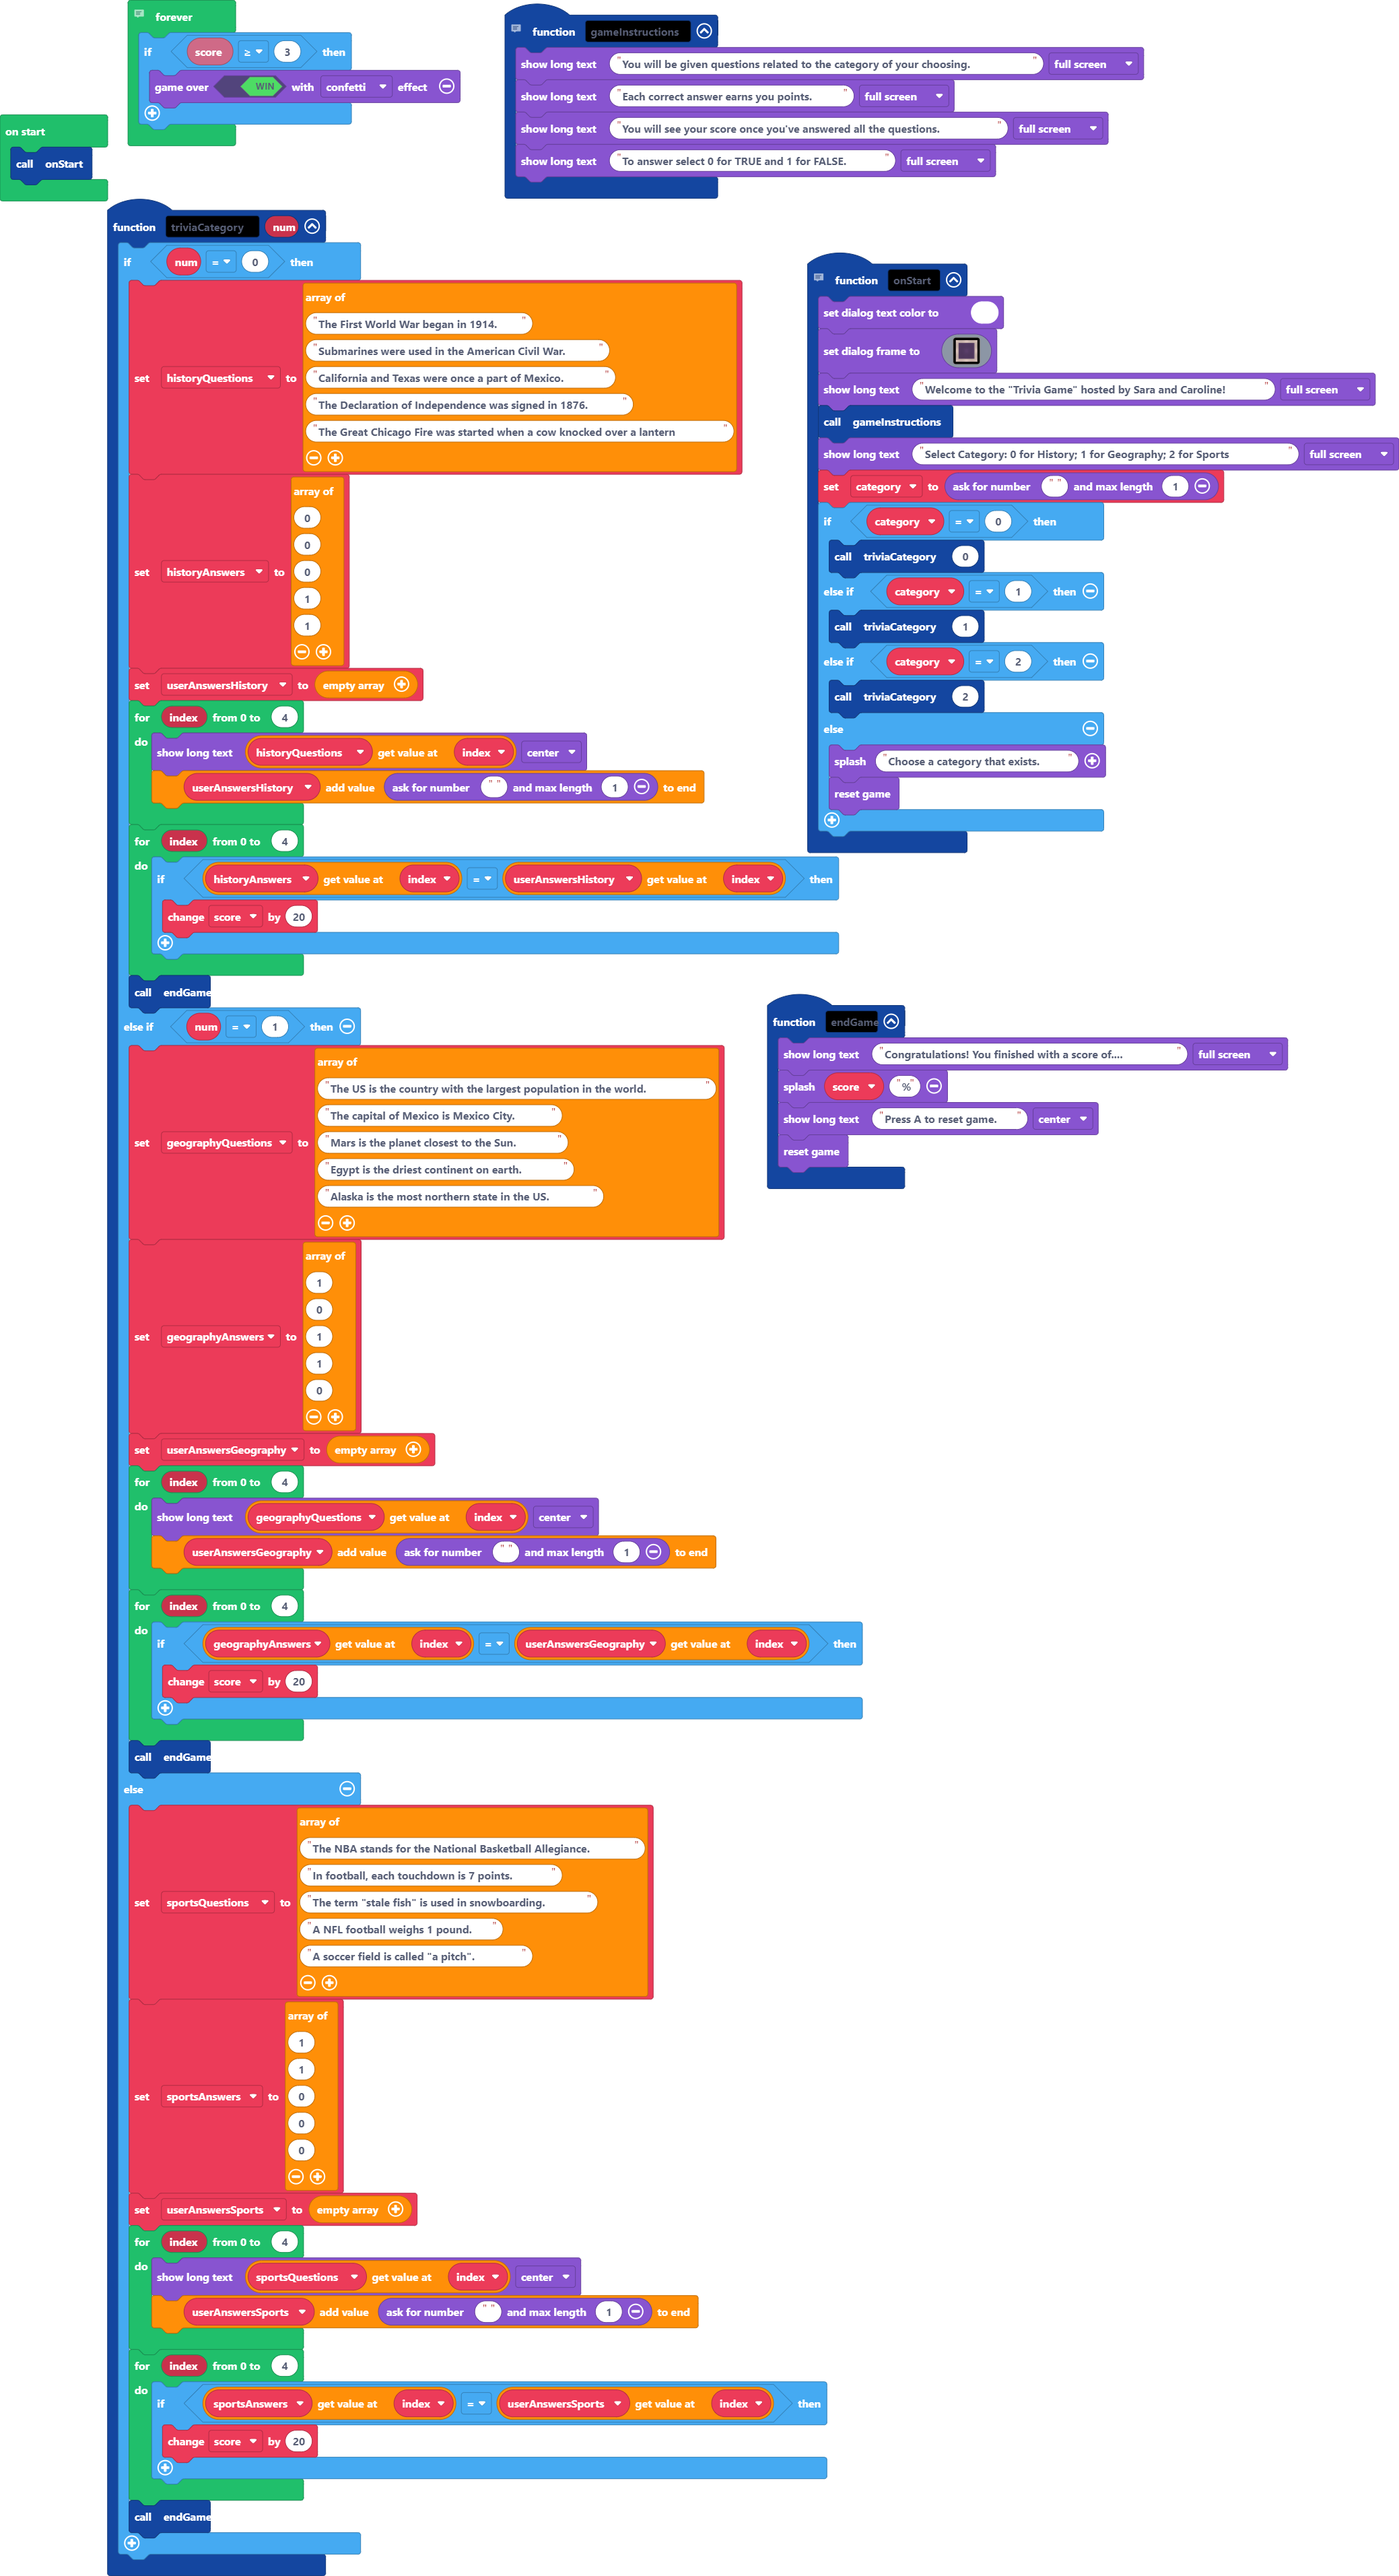
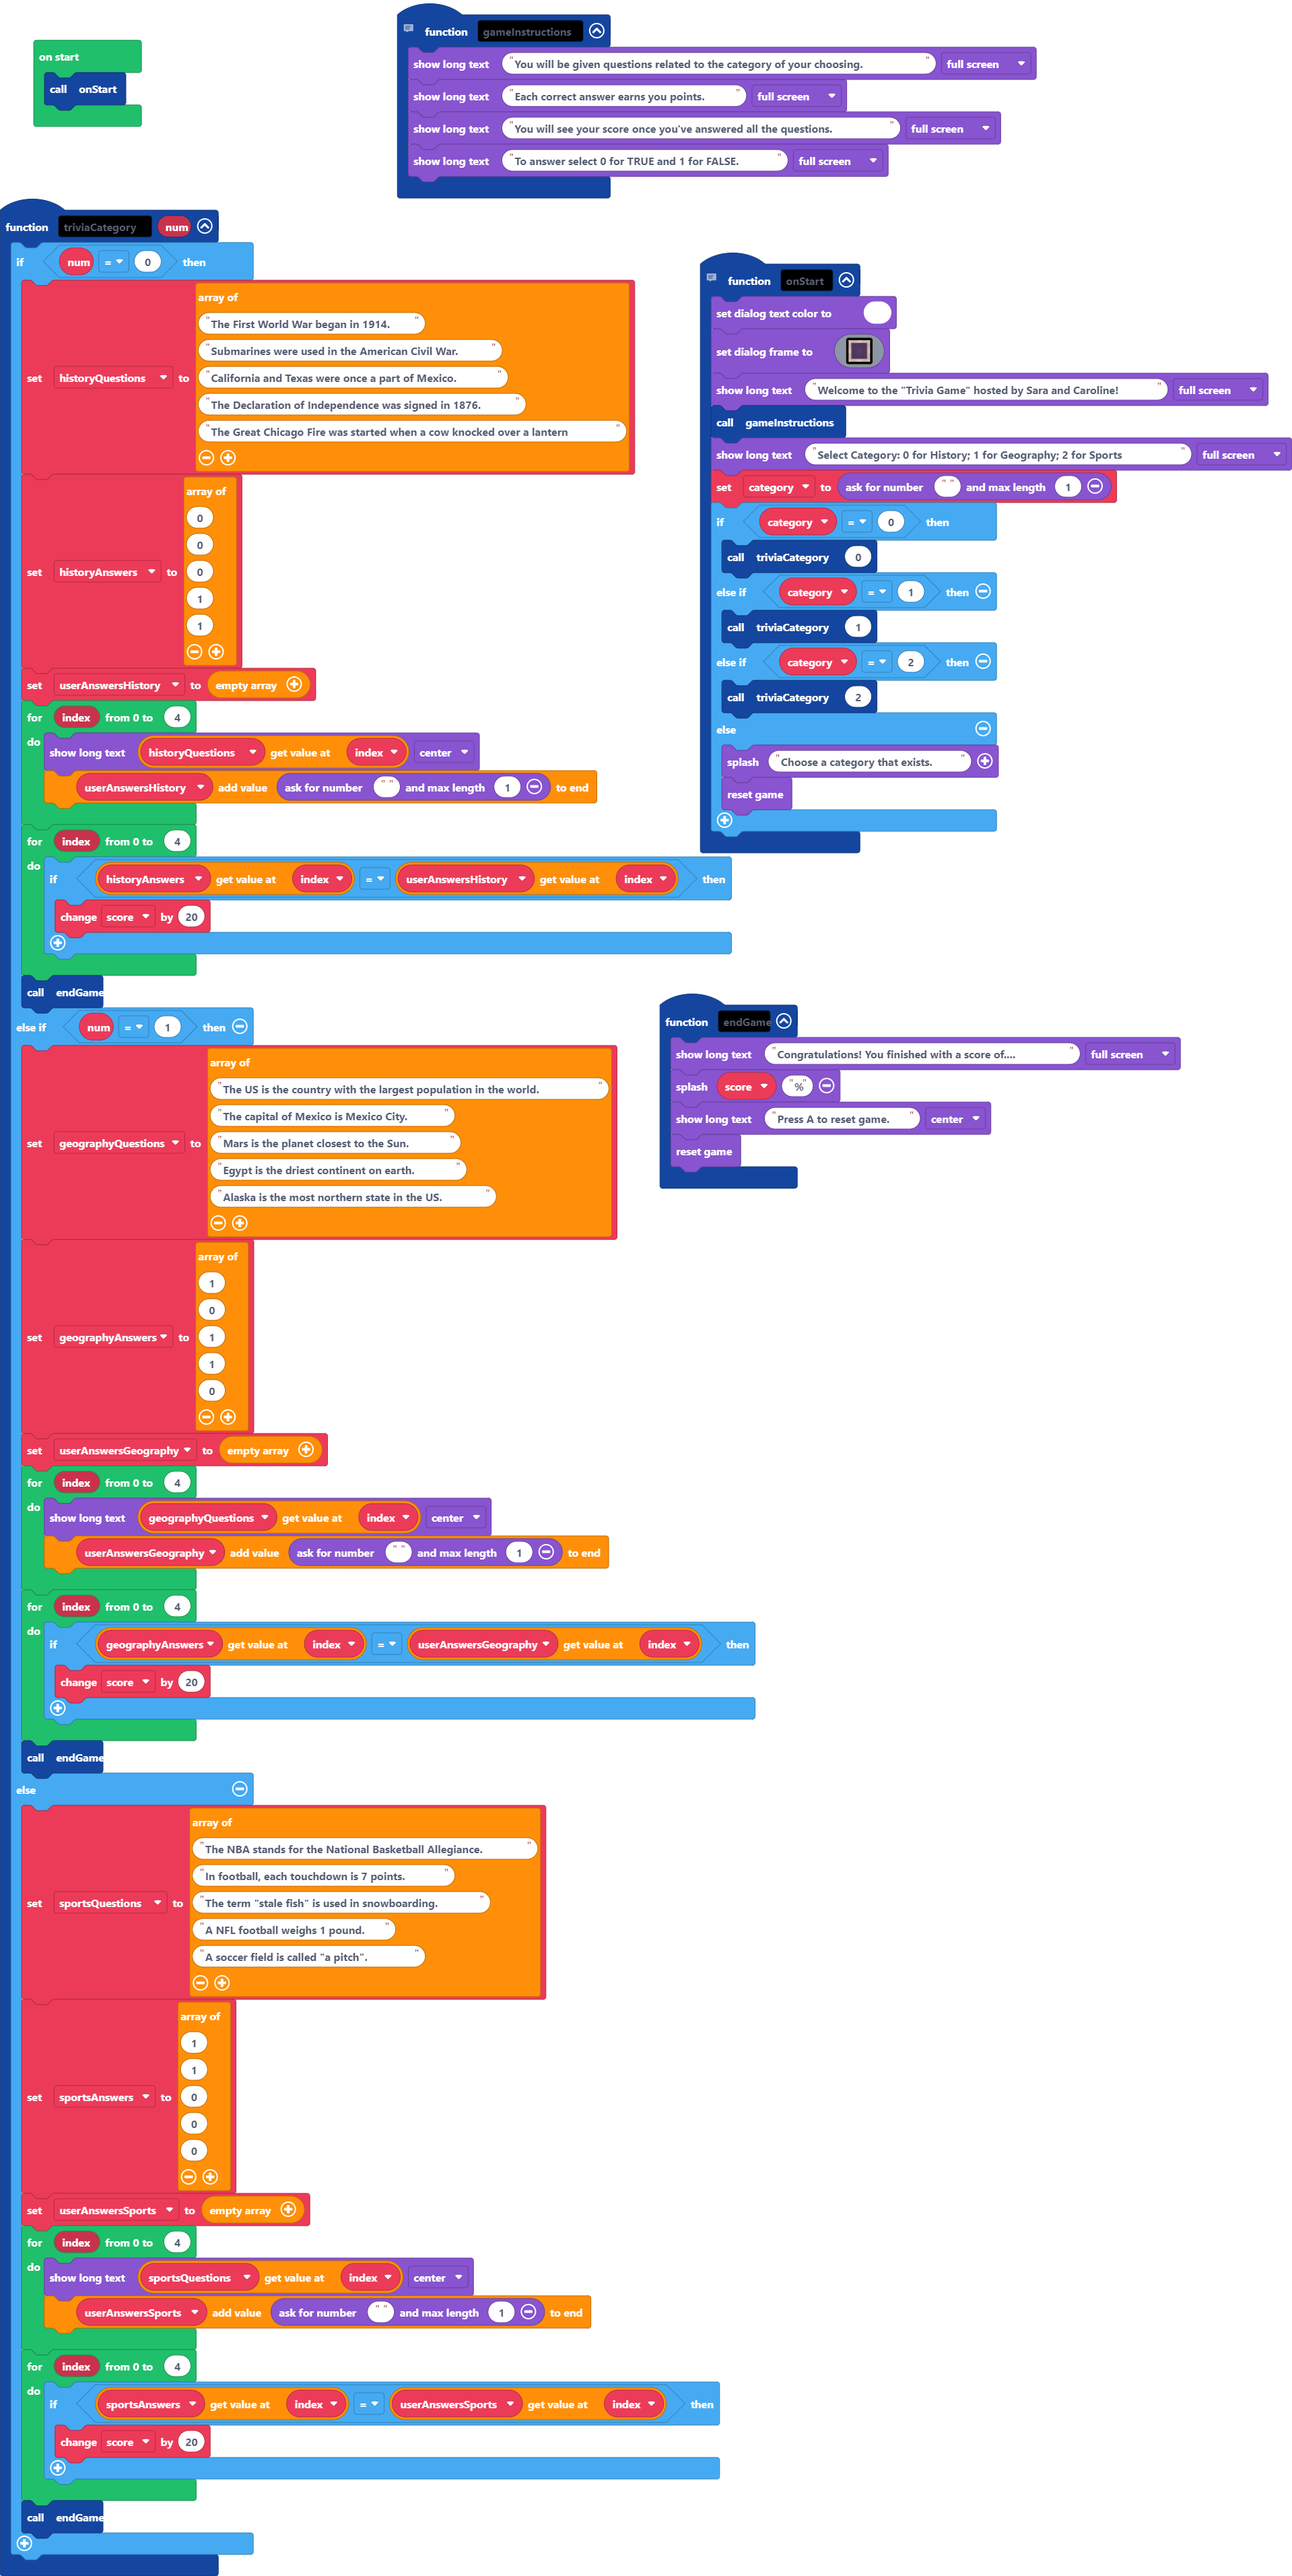
Update main.blocks, main.ts

diff --git a/main.ts b/main.ts
@@ -147,12 +147,3 @@ let historyQuestions: string[] = []
 let category = 0
 let score = 0
 onStart()
-// - this iteration happens throughout the game
-// - it constantly checks if the score of the user is 3
-// - once the user's score equals 3, the user wins and the game ends
-// - this iteration lessens the complexity by not having the program manually check the score after each progression of the game
-forever(function () {
-    if (info.score() >= 3) {
-        game.over(true, effects.confetti)
-    }
-})
